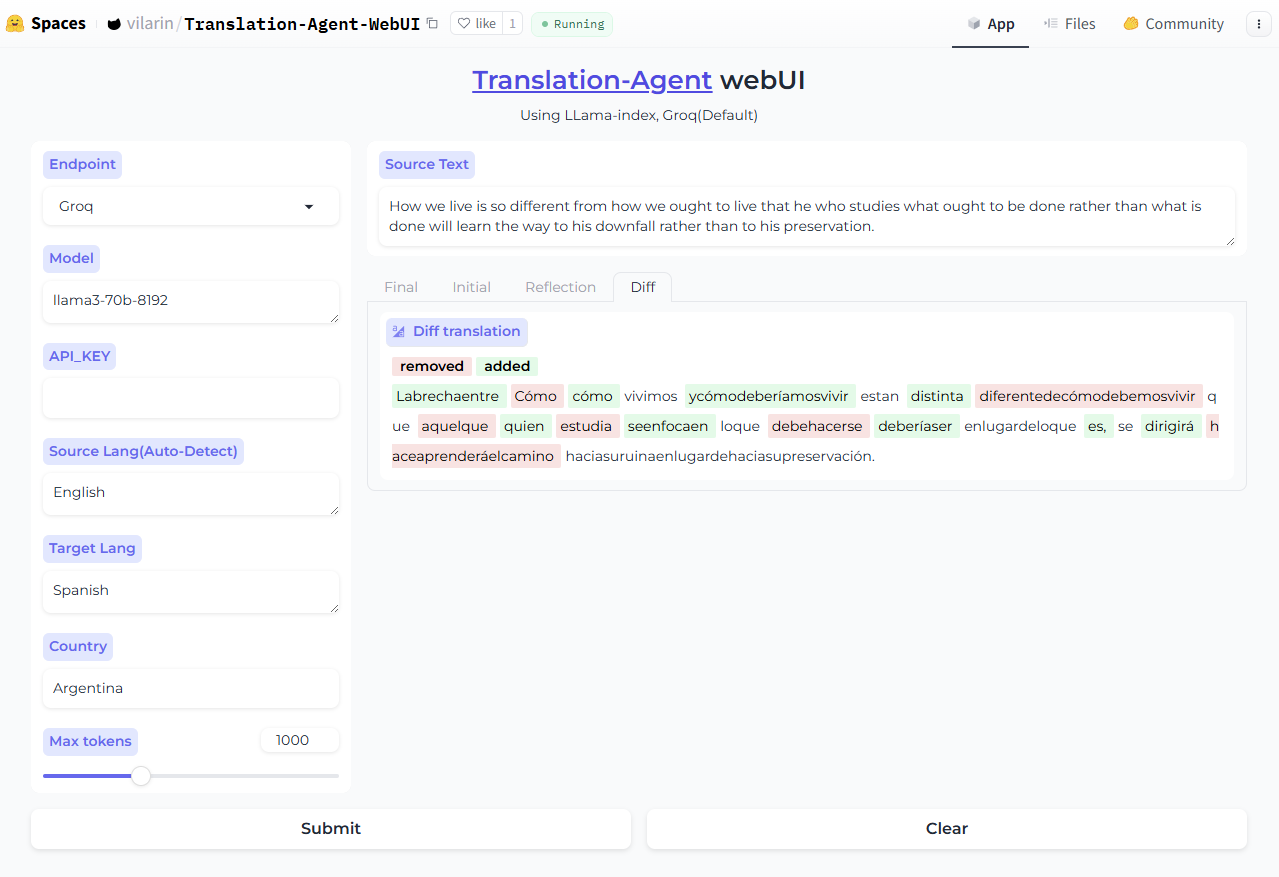
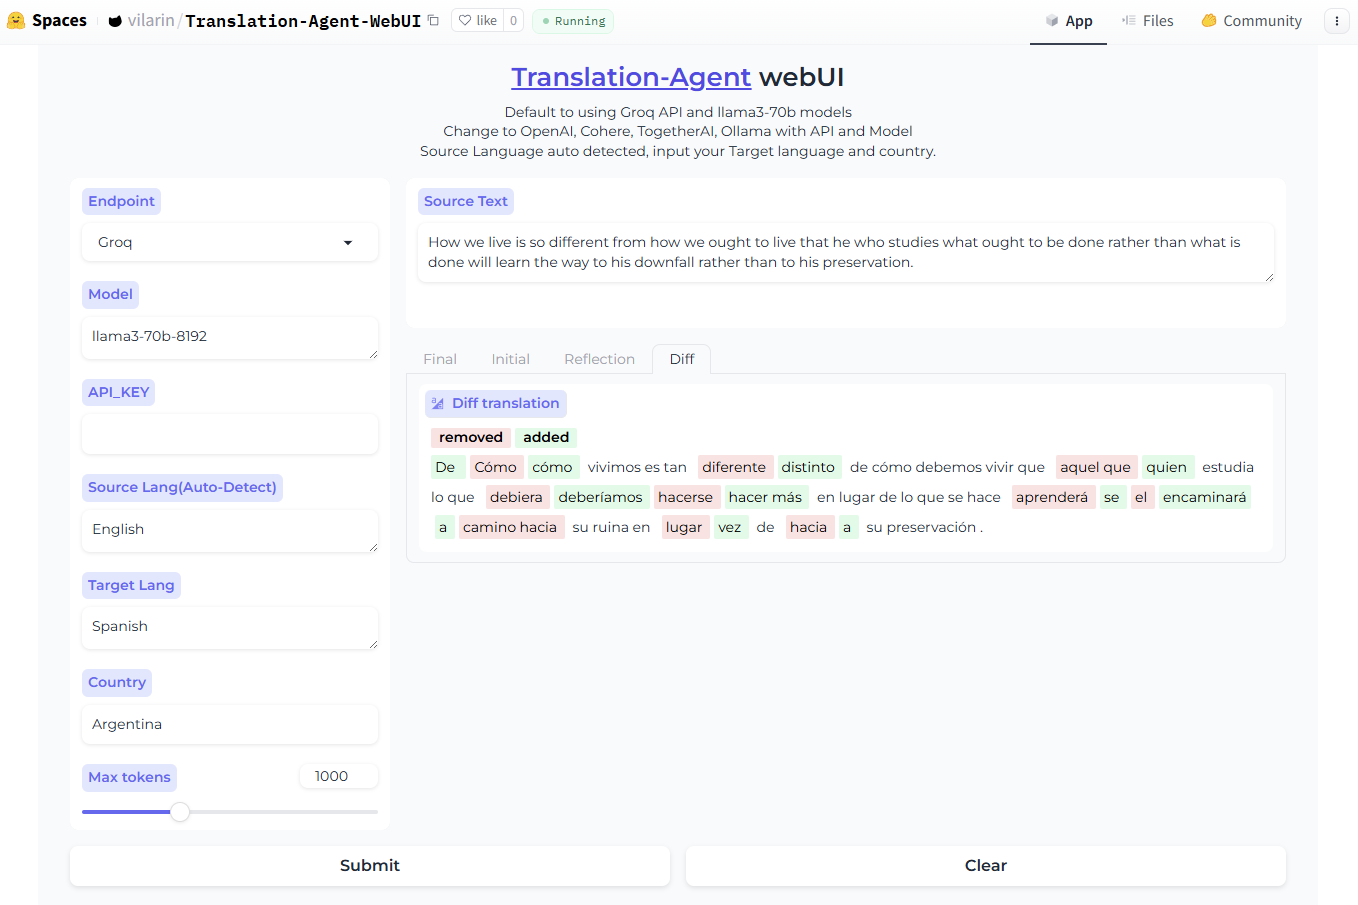
fix

diff --git a/app.py b/app.py
@@ -53,7 +53,6 @@ def diff_texts(text1, text2):
             continue  # Ignore the hints line
 
         highlighted_text.append((word, category))
-        ic(highlighted_text)
 
     return highlighted_text
 
@@ -97,9 +96,9 @@ def huanik(
 TITLE = """
 <h1><a href="https://github.com/andrewyng/translation-agent">Translation-Agent</a> webUI</h1>
 <center>
-Default to using Groq API and llama3-70b models
+Default to using Groq API and llama3-70b model
 <br>
-Change to OpenAI, Cohere, TogetherAI, Ollama with API and Model
+Change to OpenAI, Cohere, TogetherAI, Ollama with your API and Model
 <br>
 Source Language auto detected, input your Target language and country.
 </center>
@@ -113,7 +112,7 @@ CSS = """
         visibility: hidden;
     }
     .texts {
-        min-height: 100px;
+        min-height: 150px;
     }
 """
 
